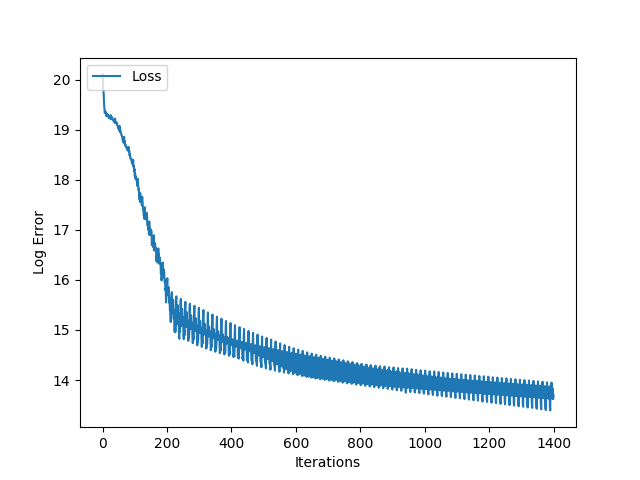
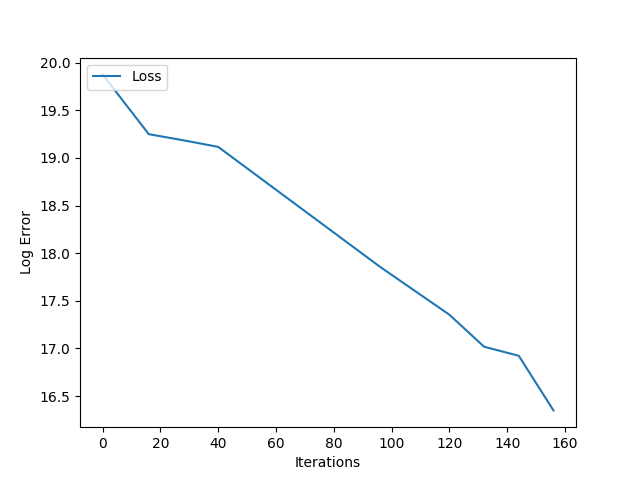
cross validation

diff --git a/model_relu_2_GCN.py b/model_relu_2_GCN.py
@@ -11,7 +11,7 @@ import torch.nn.functional as F
 
 data = loadmat('qm7.mat')
 X = data['X']
-p = data['P']
+folds = data['P']
 label = data['T']
 
 batch = 100
@@ -44,65 +44,84 @@ W2 = Variable(torch.randn(batch, 23, 23).type(FloatTensor), requires_grad=True)
 W3 = Variable(torch.randn(batch, 23, 5).type(FloatTensor), requires_grad=True)
 W4 = Variable(torch.randn(23*5, 1).type(FloatTensor), requires_grad=True)
 
-p = p[0]
+#p = p[0]
 epochs = 100
 
 optimizer = torch.optim.Adam([W1,W2,W3,W4], lr=learning_rate)
 loss_fn = torch.nn.MSELoss(size_average=False)
-loss_array = []
-for epoch in xrange(epochs):
-	for iteration in xrange(len(p)/batch):
-		indices = p[iteration*batch: iteration*batch + batch]
-		a_list = []
-		d_list = []
-		x_list = []
-		y_list = []
-		for index in indices:
-			a_hat, d = preprocess(X[index])
-			a_list.append(a_hat)
-			d_list.append(d)
-			x_list.append(X[index])
-			y_list.append(label[0][index])
-		a_list = numpy.array(a_list)
-		a_list = torch.from_numpy(a_list)
-		a_list = Variable(a_list, requires_grad = False)
-		a_list = a_list.float()
+master_loss_array = []
+master_iteration_array = []
+fold_iteration = 0
+#master_iteration = 0
 
-		d_list = numpy.array(d_list)
-		d_list = torch.from_numpy(d_list)
-		d_list = Variable(d_list, requires_grad = False)
-		d_list = d_list.float()
+for fold in folds:
+	fold_iteration += 1
+	master_iteration = 0
+	loss_array = []
+	iteration_array = []
+	for epoch in xrange(1,epochs):
+		for iteration in xrange(1,len(fold)/batch):
+			indices = fold[iteration*batch: iteration*batch + batch]
+			a_list = []
+			d_list = []
+			x_list = []
+			y_list = []
+			for index in indices:
+				a_hat, d = preprocess(X[index])
+				a_list.append(a_hat)
+				d_list.append(d)
+				x_list.append(X[index])
+				y_list.append(label[0][index])
+			a_list = numpy.array(a_list)
+			a_list = torch.from_numpy(a_list)
+			a_list = Variable(a_list, requires_grad = False)
+			a_list = a_list.float()
 
-		x_list = numpy.array(x_list)
-		x_list = torch.from_numpy(x_list)
-		x_list = Variable(x_list, requires_grad = False)
-		x_list = x_list.float()
+			d_list = numpy.array(d_list)
+			d_list = torch.from_numpy(d_list)
+			d_list = Variable(d_list, requires_grad = False)
+			d_list = d_list.float()
 
-		y_list = numpy.array(y_list)
-		y_list = torch.from_numpy(y_list)
-		y_list = Variable(y_list, requires_grad = False)
-		y = y_list.float()
+			x_list = numpy.array(x_list)
+			x_list = torch.from_numpy(x_list)
+			x_list = Variable(x_list, requires_grad = False)
+			x_list = x_list.float()
 
-		A = a_list.view(batch, 23, 23)
-		D = d_list.view(batch, 23, 23)
-		x = x_list.view(batch, 23, 23)
+			y_list = numpy.array(y_list)
+			y_list = torch.from_numpy(y_list)
+			y_list = Variable(y_list, requires_grad = False)
+			y = y_list.float()
 
-		hidden_layer_1 = F.leaky_relu(D.bmm(A).bmm(D).bmm(x).bmm(W1))
-		hidden_layer_2 = F.leaky_relu(D.bmm(A).bmm(D).bmm(hidden_layer_1).bmm(W2))
-		y_pred = F.leaky_relu(D.bmm(A).bmm(D).bmm(hidden_layer_2).bmm(W3))
-		y_pred = y_pred.view(batch, 23*5)
-		#y_pred = 2000*F.sigmoid(y_pred.mm(W4))
-		y_pred = F.leaky_relu(y_pred.mm(W4))
-		loss = loss_fn(y_pred,y.view(batch,1))# + W1.norm(2) + W2.norm(2) + W3.norm(2)
-		print torch.log(loss)
-		loss_array.append(torch.log(loss).data.numpy().tolist())
-		optimizer.zero_grad()
-		loss.backward()
-		optimizer.step()
+			A = a_list.view(batch, 23, 23)
+			D = d_list.view(batch, 23, 23)
+			x = x_list.view(batch, 23, 23)
+
+			hidden_layer_1 = F.leaky_relu(D.bmm(A).bmm(D).bmm(x).bmm(W1))
+			hidden_layer_2 = F.leaky_relu(D.bmm(A).bmm(D).bmm(hidden_layer_1).bmm(W2))
+			y_pred = F.leaky_relu(D.bmm(A).bmm(D).bmm(hidden_layer_2).bmm(W3))
+			y_pred = y_pred.view(batch, 23*5)
+			#y_pred = 2000*F.sigmoid(y_pred.mm(W4))
+			y_pred = F.leaky_relu(y_pred.mm(W4))
+			loss = loss_fn(y_pred,y.view(batch,1))# + W1.norm(2) + W2.norm(2) + W3.norm(2)
+			print torch.log(loss)
+			if master_iteration % (epoch*iteration) == 0:
+				loss_array.append(torch.log(loss).data.numpy().tolist())
+				iteration_array.append(master_iteration)
+			optimizer.zero_grad()
+			loss.backward()
+			optimizer.step()
+			master_iteration += 1
+	master_loss_array.append(loss_array)
+	master_iteration_array.append(iteration_array)
+	break
+	#if fold_iteration >= 4:
+	#	break
 print "done"
 print loss_array
 
-plt.plot(loss_array)
+a = master_loss_array[0]
+b = master_iteration_array[0]
+plt.plot(b,a)
 plt.legend(['Loss'], loc='upper left')
 plt.xlabel('Iterations')
 plt.ylabel('Log Error')
